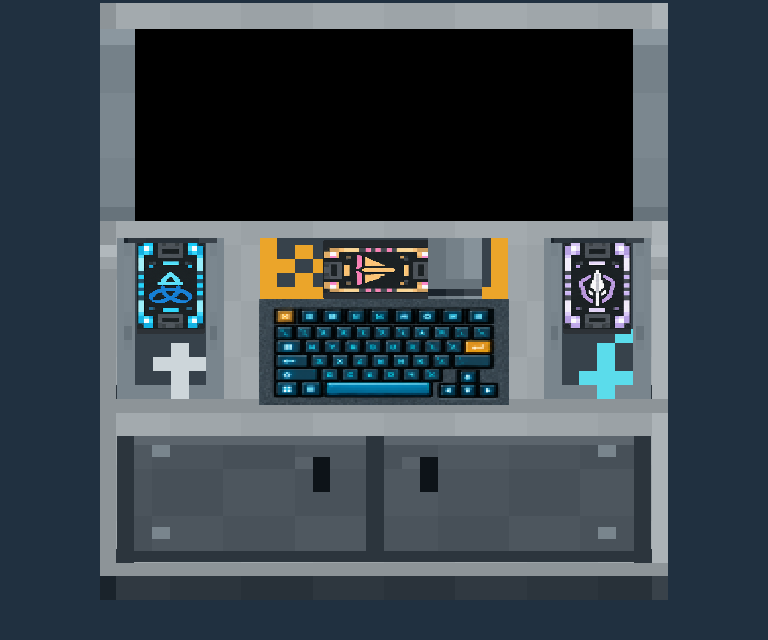
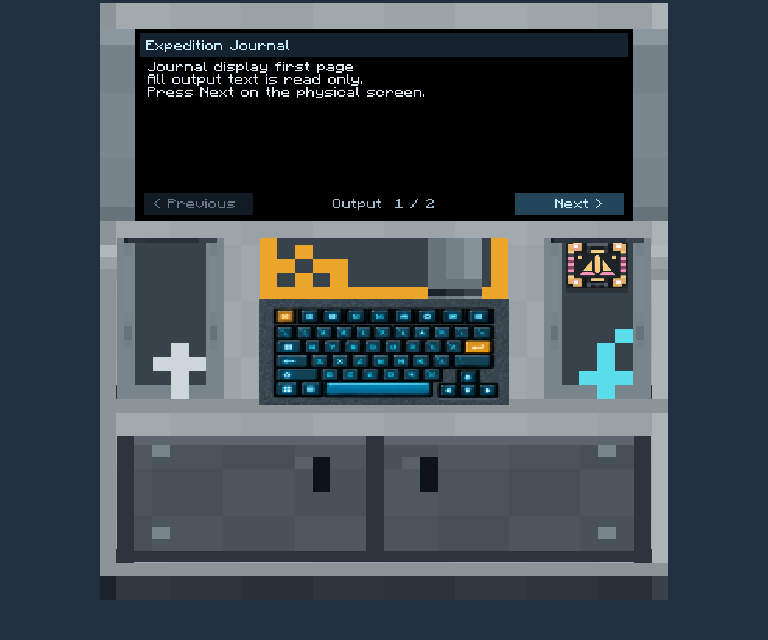
Document completed 2.6 behavior and show programmed journal contents

diff --git a/docs/versions/version-2.6.md b/docs/versions/version-2.6.md
@@ -4,11 +4,11 @@ Version 2.6 adds programmable copying, configurable surfaces and pressure plates
 
 ## Copying and programmable surfaces
 
-The [Copy Controller](../copy-controller.md) duplicates a square input volume onto a matching square output surface. Place input surfaces on its left, output surfaces on its right and a material chest behind it. Configure scan height and an optional signed redstone-channel offset in the dialog. Creative copies require no materials; Survival copies consume matching building materials and the exact items stored inside copied inventories. Missing materials and incompatible areas appear in the dialog before copying.
+The [Copy Controller](../copy-controller.md) duplicates a square input volume onto a matching square output surface. Place input surfaces on its left, output surfaces on its right and a material chest behind it. The front faces the placing player: cyan input is on your left and amber output on your right. Configure scan height and an optional signed redstone-channel offset in the dialog. Creative copies require no materials; Survival copies consume matching building materials and the exact items stored inside copied inventories. Missing materials and incompatible areas appear in the dialog before copying.
 
 ![Copy Controller casing and its directional input/output markings](version-2.6-copy-controller.png)
 
-[Programmable Surfaces](../turntables.md) replace Turntable Surfaces without changing their saved block ID. Select active and inactive materials and Fit/Tile mapping on the surfaces. The shared **Surfaces** texture category includes the existing turntable designs and eight new landing, docking, maintenance and copier designs. Turntable Controllers keep their existing motion and scan behavior.
+[Programmable Surfaces](../turntables.md) replace Turntable Surfaces without changing their saved block ID. Select active and inactive materials through the standard texture tabs and Fit/Tile mapping on the surfaces. New surfaces default to Fit; the Configurizer opens their appearance settings even when claimed by a controller. The shared **Surfaces** texture category includes the existing turntable designs and eight new landing, docking, maintenance and copier designs. Turntable Controllers keep their existing motion and scan behavior.
 
 The [Programmable Pressure Plate](../programmable-pressure-plate.md) offers vanilla Wood, Gold and Iron sensitivity. Wood supplies full power when triggered; Gold reaches full power at 15 entities and Iron at 150. Its dialog selects a material, output channels and Pressed, Released or Disabled channel behavior. Pressed channels follow the measured signal level, while physical redstone remains independent of the channel mode.
 
@@ -18,21 +18,21 @@ Vehicle Mode, Turntable Controller and Copy Controller use the same supported-bl
 
 ## Cards and journals
 
-The [Card / Chip Programmer](../card-chip-programmer.md) keeps a company Master, an Input item and an Output item in three physical sockets. Click a socket with a suitable held item to insert it, or use an empty hand to remove its item, without opening the dialog. Other console surfaces open the standard dark dialog. Its large display stays black and its keyboard uses the established keyboard artwork.
+The [Card / Chip Programmer](../card-chip-programmer.md) keeps a company Master, an Input item and an Output item in three physical sockets. Click a socket with a suitable held item to insert it, or use an empty hand to remove its item, without opening the dialog. Other console surfaces open the standard dark dialog. Its keyboard uses the established keyboard artwork. Its large display shows Journal Chip contents with clickable page buttons and stays black when no journal is present.
 
 Put a blank Access Card or Data Chip in Input and leave Output empty. **Program** consumes Input and moves the programmed result to Output, retaining the company Master. Existing Output items are never edited or overwritten. Move a result back to Input to program it again. Data Chip types include Master and Journal; Access Cards disable the Type selector.
 
-A Journal Chip in Input loads its title and eight text pages into the Journal view. Edit and paginate there, then Program to write the chip and move it to Output. Pending input edits save automatically; **Done** closes either dialog page. Items stay in their sockets when the dialog closes.
+A Journal Chip in Input loads its title and eight text pages into the Journal view. Edit and paginate there, then Program to write the chip and move it to Output. The Journal button appears only for an Input Data Chip whose selected type is Journal. Pending input edits save automatically; **Done** closes either dialog page. Items stay in their sockets when the dialog closes.
 
-![Card / Chip Programmer with retained cards, a black display and the standard keyboard](version-2.6-programmer.png)
+![Card / Chip Programmer displaying a programmed Output journal and page controls](version-2.6-programmer.png)
 
 ## Arms, tracks and couplers
 
-[Extender, Rotating and Fixed Arms](../modular-landing-gear.md) can form mechanisms without a landing foot or hull above them. Place arms on floors, ceilings or walls to choose their motion axis. A generic mechanism's Off state is its construction pose; configure its active reach or rotation in the single two-column dialog. The payload can stay level or rotate with the arm. Ordinary clicks on the exposed tip place the next arm or payload outside the arm's occupied cell, and extenders retain at least one block of reach.
+[Extender, Rotating and Fixed Arms](../modular-landing-gear.md) can form mechanisms without a landing foot or hull above them. Place arms on floors, ceilings or walls to choose their motion axis. A generic mechanism's Off state is its construction pose; extension follows the number of stacked arms, and its single two-column dialog configures motion and appearance without Angle or Active reach fields. The payload can stay level or rotate with the arm. Ordinary clicks on the exposed tip place the next arm or payload outside the arm's occupied cell, and extenders retain at least one block of reach.
 
 Ordinary attachments become placed blocks again at exact whole-block translation endpoints. Fractional translations and rotations retain their block data in a moving snapshot. Captured machinery pauses while held, as it does in vehicle snapshots. Discovery and motion remain bounded and require loaded cells and permission to move the attachment.
 
-One **Track** block offers Compact, Armoured and Bogie styles in its dialog. Place tracks against an arm tip, beside a slab or against another track; placement follows the clicked mounting direction. Two track blocks are enough for vehicle support. Native tread geometry supplies the selection and collision bounds. Nested landing groups can include connecting blocks and lower landing assemblies; inspection uses the outer supports and excludes the ground beyond them.
+One **Track** block offers Compact, Armoured and Bogie styles in its dialog. Place tracks against an arm tip, beside a slab or against another track; placement follows the clicked mounting direction. Two track blocks are enough for vehicle support. Native tread geometry supplies the selection and collision bounds. Track settings have their own dialog, and the belts animate with Taxi travel, reverse and steering while remaining still in Hover. Nested landing groups can include connecting blocks and lower landing assemblies; inspection uses the outer supports and excludes the ground beyond them.
 
 [Vehicle Couplers](../couplers.md) and their horizontal slab variant connect opposing sections. Both halves support channel inputs and inverted activation, with the same dialog for right-click and the Configurizer. In Taxi/Hover mode, enabled pairs can collect a parked section made of world blocks. Releasing a pair restores the detached section as blocks only when alignment, permissions, loaded chunks and clear space make parking safe. Otherwise it stays attached. This does not merge two moving vehicle entities.
 
@@ -48,13 +48,13 @@ Five new assemblies use the existing Core and Programmable Matter workflow:
 - [Standalone Dish](../multiblocks/standalone-dish/README.md).
 - [Standalone Antenna](../multiblocks/standalone-antenna/README.md).
 
-Each linked guide includes five construction stages: the base, pillars or middle layers, roof completion, assembly, and optional chip security. Each assembly provides configurable input channels, chip security and a native retained Data Chip holder. These models do not perform radar detection or dimensional travel.
+Each linked guide includes five construction stages: the base, pillars or middle layers, roof completion, assembly, and Data Chip insertion. Core and navigation assemblies provide configurable input channels and visible, retained Data Chip holders. Data Chips store data; they do not gate activation, and these dialogs have no Security section. These models do not perform radar detection or dimensional travel.
 
 ![Assembled Pinnacle Oculus Drive](../multiblocks/oculus-drive/step-4.png)
 
 ![Assembled Survey Dish](../multiblocks/survey-dish/step-4.png)
 
-Longburn Drive is now **Maxwell Drive**. Pinnacle Meridian Drive is now **Seyr Meridian Drive**, with one Seyr nameplate. Saved registry IDs remain unchanged.
+Longburn Drive is now **Maxwell Drive**. Pinnacle Meridian Drive is now **Seyr Meridian Drive**, with one Seyr nameplate. Saved registry IDs remain unchanged. Maxwell, Seyr Meridian and Oculus Drives share the Rocket Thruster’s redstone activation, levels and particle settings. Maxwell emits warm yellow/white exhaust and Meridian pulses its cyan front lights. These decorative drives do not provide Vehicle, Taxi or Hover thrust.
 
 ## Materials and vehicle compatibility
 
@@ -64,8 +64,8 @@ Strong programmable glass is opaque, including Clear and replacement materials. 
 
 Stationary vehicle controls now say **Park Mode**. Cockpit clipboard copies use relative reservation links and remain independent of their originals. Downward propulsion blocks terminate discovery alongside landing supports.
 
-[Joined 2×2 propulsion blocks](../propulsion-shapes.md) can switch between square and hexagonal shapes through their dialog. Two complete 2×2s also join independently when staggered by one row, preserving both groups despite their combined stepped outline.
+[Joined 2×2 propulsion blocks](../propulsion-shapes.md) can switch between square and hexagonal shapes through their dialog. Two complete 2×2s also join independently when staggered by one row, preserving both groups despite their combined stepped outline. Complete 3×3 hexagonal groups also join, and middle-clicking picks the ordinary single propulsion block.
 
-Ramp Controllers accept all steel and aluminum scaffolding patterns from Immersive Engineering. Additional explicit vehicle adapters cover inert IE structures and Mekanism storage and glow panels; see [the supported block list](../vehicle-compatibility.md) for their limits.
+Ramp Controllers accept all steel and aluminum scaffolding patterns from Immersive Engineering. Additional explicit vehicle adapters cover complete IE posts and watermills, windmills, wallmounts, decorative metal blocks and Toolboxes, as well as Mekanism storage and glow panels; see [the supported block list](../vehicle-compatibility.md) for their limits.
 
 [All version guides](README.md) · [Changelog](../../CHANGELOG.md)

diff --git a/CHANGELOG.md b/CHANGELOG.md
@@ -3,25 +3,29 @@
 ## 2.6
 
 - Add a Copy Controller with matching square input/output surfaces, configurable scan height, exact block and inventory copies, signed redstone-channel offsets and recoverable material transactions. Creative copies require no supply chest; Survival copies require matching blocks and stored items and report the first missing material.
-- Rename Turntable Surface to Programmable Surface while preserving its saved registry ID. Configure active/inactive materials and Fit/Tile mapping on the surface itself, share surfaces between turntables and copiers, and add eight supplied landing, docking, maintenance and copier designs to the Surfaces category.
+- Rename Turntable Surface to Programmable Surface while preserving its saved registry ID. Configure active/inactive materials with the standard Active/Inactive texture tabs and Fit/Tile mapping on the surface itself; default new surfaces to Fit, share surfaces between turntables and copiers, and add eight supplied landing, docking, maintenance and copier designs to the Surfaces category.
+- Match Copy Controller scan directions to its front-facing placement: cyan input on the player’s left, amber output on the right, supply chest behind. Reuse the Turntable height slider and label the signed copy setting Redstone Channel Increment On Copy.
 - Add a Programmable Pressure Plate with selectable vanilla Wood, Gold and Iron sensitivity and physical redstone levels, configurable channel behavior and the shared material catalog including trapdoor designs.
 - Share one lossless block-support policy between Vehicle Mode, Turntable Controller and Copy Controller. Refuse tile data that cannot survive an exact saved-data round trip.
 - Bind automated block movement to the player who configured or placed the controller, separately from copied settings. Copied controllers use the copying player's authorization; controllers without a saved authorization request configuration again.
 - Extend Dynmap rendering to native programmer, coupler, track and Core assembly models, plus selected pressure-plate and surface materials.
 
-- Add a Card / Chip Programmer with three retained slots, company-master validation, Master Data Chips and titled eight-page journals. Program the Input item into an empty Output slot, use direct in-world socket insertion/removal, and edit input journals through the standard dark Inventory/Journal dialog. Render the actual retained cards and chips, an unlit screen and the established keyboard artwork.
-- Generalize Extender, Rotating and Fixed Arms for unsupported columns, six mounting directions and ordinary block attachments. Configure the active extension/angle and level or rotating payloads; restore exact translation endpoints as placed blocks and retain other poses as bounded snapshots. Preserve attachment data through rollback, recovery and vehicle transport.
-- Add one Track block with Compact, Armoured and Bogie styles selected in its dialog. Match clicked tracks and arm tips during placement, turn slab-side mounts correctly, and use the native rotated geometry for selection and collision. Two physical track blocks can support a vehicle; retain older style registry IDs for saved worlds.
+- Add a Card / Chip Programmer with three retained slots, company-master validation, Master Data Chips and titled eight-page journals. Program the Input item into an empty Output slot, use direct in-world socket insertion/removal, and edit input journals through the standard dark Inventory/Journal dialog. Render retained cards and chips and the established keyboard artwork. Show Journal Chip contents and clickable page controls on the large world screen; show the Journal dialog button only for a Journal Data Chip in Input.
+- Generalize Extender, Rotating and Fixed Arms for unsupported columns, six mounting directions and ordinary block attachments. Infer extension from stacked arm count and configure level or rotating payloads in the shared two-column dialog; restore exact translation endpoints as placed blocks and retain other poses as bounded snapshots. Preserve attachment data through rollback, recovery and vehicle transport.
+- Add one Track block with Compact, Armoured and Bogie styles selected in its dialog. Match clicked tracks and arm tips during placement, turn slab-side mounts correctly, and use the native rotated geometry for selection and collision. Two physical track blocks can support a vehicle; retain older style registry IDs for saved worlds. Keep Track settings separate from Arm settings and animate native tread belts during Taxi travel, with stationary belts in Hover.
+- Reduce animated tread vertex submissions by retaining rectangular clipped faces, and validate each complete IE assembly once per snapshot rather than once per member. Preserve the geometry and exact-NBT regression checks.
 - Add Vehicle Couplers and a horizontal top/bottom slab variant, with one shared right-click/Configurizer dialog, channel and physical redstone inputs and inverted activation. Automatically collect opposing world-block sections in Taxi/Hover mode; detach only when the complete released section can safely park as blocks. Keep unsafe sections attached and preserve inventories and vehicle ownership through verified save checkpoints. Include nested landing groups down to their outer supports and treat downward propulsion blocks as discovery boundaries.
 - Open carried vanilla single and double chests through their normal inventory dialog. Preserve item changes, names and locks in the vehicle snapshot, check physical reach, and close access before ownership transfers.
 - Capture a complete parked child vehicle on a lower vehicle. Use the lowest supports as the boundary, retain higher landing gear as cargo, and keep the outer vehicle's pilot, controller and Autopilot authoritative.
-- Keep generic arm tips outside their adjacent payload cells, support ordinary placement and stacked arms on all six axes, restore extender underside artwork and prevent zero-length retraction. Show motion and appearance controls together in a two-column dialog and display deployment errors.
+- Keep generic arm tips outside their adjacent payload cells, support ordinary placement and stacked arms on all six axes, restore extender underside artwork and prevent zero-length retraction. Retire stale materialized payload collision after mining and keep stacked Large arms connected when tracks are removed or replaced. Show motion and appearance controls together in a two-column dialog and display deployment errors.
 - Support Immersive Engineering scaffolding in Ramp Controllers and extend explicit vehicle rotation adapters to inert IE structures and Mekanism storage and glow panels, preserving their inventories, energy and owner settings.
 - Make Strong glass opaque in every shade, with opaque-pass depth writes for programmable panes and shared glazing. Preserve active OptiFine vertex layouts, normals and extended records when building and mapping Programmable Block surfaces; invalidate cached meshes when the format changes.
 - Restore face-filling Fit mapping for Programmable Blocks without black margins. Compare vanilla rendered Panels against the previous crop behavior independently of shader-format checks.
-- Convert joined 2×2 propulsion blocks between square and hexagonal shapes as one group, preserving their settings. Keep two staggered 2×2 groups joined when their touching outline is not a rectangle.
+- Convert joined 2×2 propulsion blocks between square and hexagonal shapes as one group, preserving their settings. Keep two staggered 2×2 groups joined when their touching outline is not a rectangle. Join complete 3×3 hexagons and pick their original single-block item.
 
 - Add Pinnacle Oculus Drive, Survey Dish, Sentinel Array, Standalone Dish and Standalone Antenna Core assemblies, with matching chips, configurable redstone activation, native holders and cached shutter/dish animations. Their controls use the existing Core and Programmable Matter construction workflow, with illustrated step-by-step building guides.
+- Remove Security controls and chip activation gates from all Core and navigation multiblocks. Keep their Data Chip holders visible, clickable and retained independently of redstone activation.
+- Give Maxwell, Seyr Meridian and Oculus Drives the Rocket Thruster redstone modes, levels and particle settings. Use warm yellow/white Maxwell exhaust and pulsing cyan Meridian lights. These drives remain decorative and supply no vehicle thrust.
 - Rename Longburn Drive to Maxwell Drive and Pinnacle Meridian Drive to Seyr Meridian Drive. Replace the Meridian branding with one Seyr nameplate while retaining saved registry IDs and model dimensions.
 
 - Keep copied cockpits independent of their originals. Save relative reservation links and validate each part against the owning cockpit footprint, including local recovery for older clipboard copies.

diff --git a/README.md b/README.md
@@ -343,7 +343,7 @@ The build checks shared bytecode for client-only API references with `testDedica
 For the automated live client suite, set `VANDOR_LABS_COMPAT_MODS` to a folder containing the test versions of WorldEdit, Better Builder's Wands and Immersive Engineering. It defaults to the standard `.minecraft/mods` folder. Run `bash testclient/test_viewscreen.sh --full` for complete coverage.
 
 Use `--focus bridge-machines` for the Core-frame matrix, integrated chip readers,
-navigation joining, display input/security gates, authorized dialog round trips,
+navigation joining, display inputs and retained data holders, authorized dialog round trips,
 item padding and reverse Hover steering. This focus also runs in `verifyRelease`.
 Use `--focus utility26` for copier material transactions and recovery, signed channel offsets, shared lossless block data, programmable surfaces, pressure-plate sensitivities, programmer inventories and dialogs, generic arm payloads, tracks, couplers and the optional-mod block adapters. It includes rendered material, dialog and item-padding checks and runs in `verifyRelease`.
 
